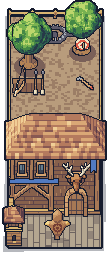
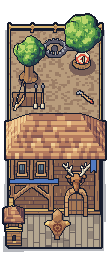
Hunter's Academy sprite: thinner left tree, range pulled against the roof

diff --git a/client/scripts/generate-hunters-academy.py b/client/scripts/generate-hunters-academy.py
@@ -60,9 +60,12 @@ class Tree:
         self.trunk_label, self.leaves_label = trunk_label, leaves_label
 
 
-TREES = (Tree(-26, 218, 26, 18, 1, TRUNK_L, LEAVES_L), Tree(27, 238, 28, 16, 2, TRUNK_R, LEAVES_R))
+# The range is pulled toward the hall by RANGE_SHIFT voxels, so it starts right behind the roof.
+RANGE_SHIFT = 20
+TREES = (Tree(-26, 218 - RANGE_SHIFT, 26, 13, 1, TRUNK_L, LEAVES_L),
+         Tree(27, 238 - RANGE_SHIFT, 28, 16, 2, TRUNK_R, LEAVES_R))
 TARGET_AT = (27, 15)  # x, z on the right trunk's front
-TRAP_AT = (0, 258)
+TRAP_AT = (0, 258 - RANGE_SHIFT)
 
 
 def noise(*values):
@@ -185,8 +188,9 @@ def dummy(g):
 
 
 def court(g):
-    b = g.box
-    b(-47, 47, 43, 286, 0, 2, EARTH)
+    def b(x0, x1, y0, y1, z0, z1, label):
+        g.box(x0, x1, y0 - RANGE_SHIFT, y1 - RANGE_SHIFT, z0, z1, label)
+    b(-47, 47, 43 + RANGE_SHIFT, 286, 0, 2, EARTH)
     # Log fence on the sides and the back.
     for y in list(range(60, 284, 22)) + [282]:
         for x in (-47, 44):
@@ -216,9 +220,9 @@ def court(g):
     for z in range(tz-8, tz+9):
         for x in range(tx-8, tx+9):
             if math.hypot(x+.5-tx-.5, z+.5-tz-.5) <= 7.6:
-                b(x, x+1, trunk_front-3, trunk_front, z, z+1, TARGET)
+                g.box(x, x+1, trunk_front-3, trunk_front, z, z+1, TARGET)
     trap(g)
-    arrow(g, (37, 180), (24, 195))
+    arrow(g, (37, 180 - RANGE_SHIFT), (24, 195 - RANGE_SHIFT))
     # Two arrows standing against the wall, heads up, white fletching at the bottom.
     for x0 in (-20, -13):
         for z in range(2, 30):
@@ -231,7 +235,7 @@ def court(g):
             b(x0-half, x0+2+half, 174, 176, z, z+1, HEAD)
     # One arrow stuck in the target, its fletching toward the camera.
     for y in range(trunk_front-13, trunk_front-3):
-        b(tx+1, tx+3, y, y+1, tz+2, tz+4, FLETCH if y < trunk_front-10 else SHAFT)
+        g.box(tx+1, tx+3, y, y+1, tz+2, tz+4, FLETCH if y < trunk_front-10 else SHAFT)
 
 
 def arrow(g, tail, head):
@@ -437,7 +441,7 @@ def seam(a, b):
 
 def shadow(x, y):
     return min(max(abs(x)-47, -45-y, y-44)/2, max(abs(x)-46, -y, y-44)/5,
-               max(-49-x, x+34, -45-y, y+28)/3, max(abs(x)-48, 43-y, y-287)/2)
+               max(-49-x, x+34, -45-y, y+28)/3, max(abs(x)-48, 43-y, y-287+RANGE_SHIFT)/2)
 
 
 if __name__ == '__main__':
